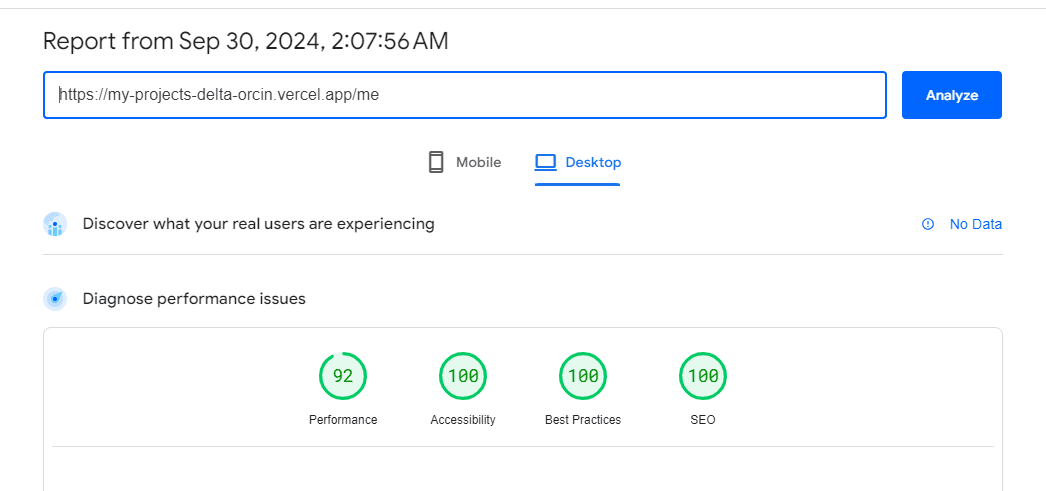
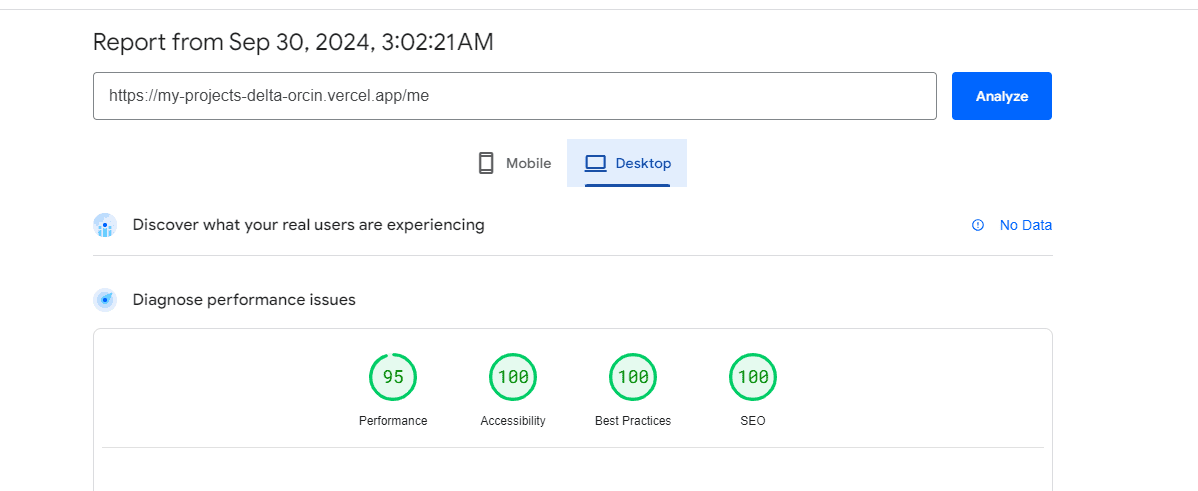
update

diff --git a/apps/jobs-listing/src/components/portfolio/Products.tsx b/apps/jobs-listing/src/components/portfolio/Products.tsx
@@ -64,7 +64,7 @@ export const Products = observer(() => {
                         fullWidth
                       >
                         <Flex fullWidth center>
-                          <Link to="https://pagespeed.web.dev/analysis/https-my-projects-delta-orcin-vercel-app-me/666r9mp0zj?form_factor=desktop">
+                          <Link to="https://pagespeed.web.dev/analysis/https-my-projects-delta-orcin-vercel-app-me/vcos3fthy7?form_factor=desktop">
                             <Text
                               color="#DD5599"
                               className={globalStyles.textKanitBold24} fontStyle={"italic"}
